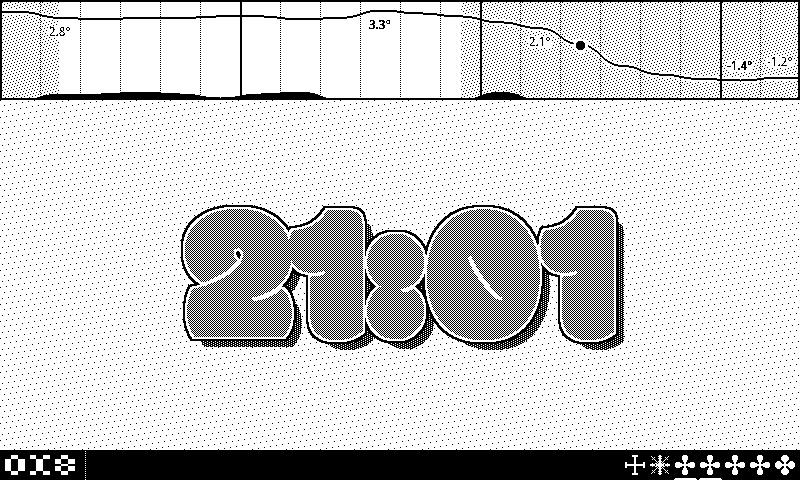
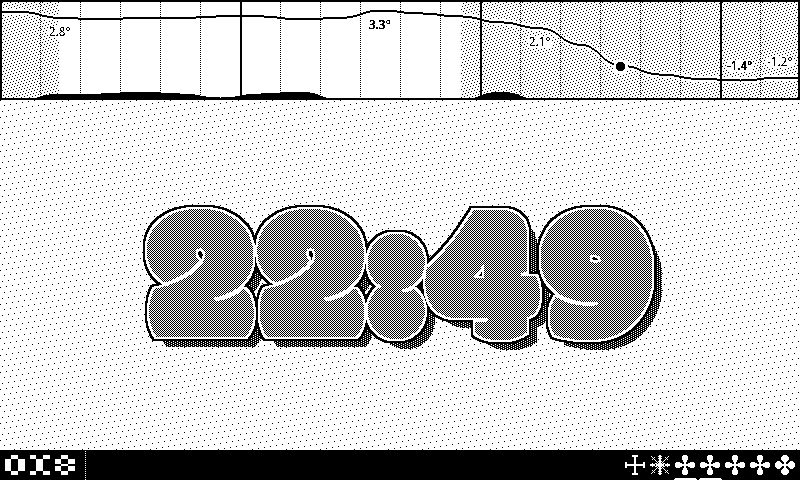
yep

diff --git a/base/index.ts b/base/index.ts
@@ -50,8 +50,11 @@ function drawScreen() {
 }
 
 let lastRendered: Buffer | null = null
-// let mutex
+let lastChange = 0
 async function drawAndUpdate(forceFullUpdate: boolean) {
+  if (Date.now() - lastChange < 5000)
+    return
+
   const img = drawScreen()
   const rendered = img.renderFullBw()
   await img.exportFullBw('test.png')
@@ -76,31 +79,29 @@ async function drawAndUpdate(forceFullUpdate: boolean) {
     return
   }
 
-  const buff = Buffer.alloc(8 + bounds.w * bounds.h)
+  const buff = Buffer.alloc(8 + Math.ceil(bounds.w * bounds.h / 8))
   buff.writeUInt16BE(bounds.x, 0)
   buff.writeUInt16BE(bounds.y, 2)
   buff.writeUInt16BE(bounds.w, 4)
   buff.writeUInt16BE(bounds.h, 6)
   ImgDiff.copyBounds(diff, buff, 8, bounds, Const.ScreenWidth)
-//  mqtt.sendBinary(TopicUpPart, buff)
+  // mqtt.sendBinary(TopicUpPart, buff)
 }
 
 async function run() {
   console.log('First')
   await drawAndUpdate(false)
+  await new Promise(resolve => setTimeout(resolve, 7000))
   console.log('Second')
   await drawAndUpdate(false)
 }
 run()
 
 
-// Export image locally
-// await img.exportFullBw('test.png')
 
-// // Render image on epd
-// const rendered = img.renderFullBw()
-// mqtt.sendBinary(TopicUpFull, rendered)
+// TODO turn off:
+// EPD_7IN5_V2_Sleep
 
 // // Clear epd screen
-// mqtt.sendBinary(TopicUpFull, new Buffer(0))
+mqtt.sendBinary(TopicUpFull, new Buffer(0))
 

diff --git a/base/ui/clock.ts b/base/ui/clock.ts
@@ -7,7 +7,7 @@ export function drawClock(): Renderer {
     paint.newRect(0, 0, width, height)
       .fill('lightest')
 
-    const rn = new Date(Date.now() + Math.random() * 600000)
+    const rn = new Date(Date.now() + Math.random() * 6000000)
     // const rn = new Date()
     const text = `${rn.getHours().toString().padStart(2, '0')}:${rn.getMinutes().toString().padStart(2, '0')}`
     const shadowDist = 10
@@ -16,21 +16,7 @@ export function drawClock(): Renderer {
      * This looks great but it means partial updates most often have
      * to update the whole text as the font is not monospaced
      */
-    // paint
-    //   .newText(text)
-    //   .at(width / 2, (height) / 2)
-    //   .anchor('center', 'center')
-    //   .size(200)
-    //   .font('Modak')
-    //   .threshold(0.9)
-    //   .translate(shadowDist, shadowDist)
-    //   .render('dark')
-    //   .translate(-shadowDist, -shadowDist)
-    //   .renderOutline('black', 4)
-    //   .renderOutline('white', 2)
-    //   .render('medium')
-
-    console.log(paint
+    paint
       .newText(text)
       .at(width / 2, (height) / 2)
       .anchor('center', 'center')
@@ -43,6 +29,5 @@ export function drawClock(): Renderer {
       .renderOutline('black', 4)
       .renderOutline('white', 2)
       .render('medium')
-      .toRect().getSize().x)
   }
 }

diff --git a/base/lib/imgdiff.ts b/base/lib/imgdiff.ts
@@ -39,13 +39,15 @@ export namespace ImgDiff {
   }
 
   export function copyBounds(src: Buffer, dest: Buffer, offset: number, bounds: { x: number, y: number, w: number, h: number }, width: number) {
-    for (let i = 0; i < bounds.h; i++) {
-      src.copy(
-        dest,
-        offset + i * bounds.w,
-        (bounds.y + i) * width + bounds.x,
-        bounds.w
-      )
+    let i = 0;
+    for (let x = bounds.x; x < bounds.x + bounds.w; x++) {
+      for (let y = bounds.y; y < bounds.y + bounds.h; y++) {
+        const idx = x + y * width
+        const byte = ~~(idx / 8)
+        const bit = idx % 8
+        dest[offset + i] = (src[byte] >> bit) & 1
+        i++
+      }
     }
   }
 

diff --git a/base/lib/paint.ts b/base/lib/paint.ts
@@ -156,7 +156,8 @@ export const usePaint = (ctx: SKRSContext2D, startX = 0, startY = 0, screenWidth
       font: 'monospace',
       thresh: 0.9,
       anchorX: 'left',
-      anchorY: 'top'
+      anchorY: 'top',
+      anchorSnap: 0
     }
 
     const out = {

diff --git a/base/lib/const.ts b/base/lib/const.ts
@@ -5,6 +5,6 @@ export namespace Const {
   export const ScreenWidth = 800
   export const ScreenHeight = 480
 
-  export const MaxPixelsForPartialUpdate = 1000
+  export const MaxPixelsForPartialUpdate = 70_000
 
 }

diff --git a/esp/src/main.cpp b/esp/src/main.cpp
@@ -6,8 +6,19 @@
 #include <stdlib.h>
 
 
+int part_x = 0;
+int part_y = 0;
+int part_w = 0;
+int part_h = 0;
+int current_mode = -1;
+
 void on_message(int mode, size_t length, size_t index, bool done, char* message) {
   if (mode == MODE_FULL) {
+    if (current_mode != MODE_FULL) {
+      current_mode = MODE_FULL;
+      disp_init_full();
+    }
+
     printf("Full! Length: %d\n", length);
     if (index == 0) {
       disp_raw_begin(800, 480);
@@ -18,10 +29,36 @@ void on_message(int mode, size_t length, size_t index, bool done, char* message)
     }
 
     if (done) {
-      disp_raw_render();
+      disp_raw_render_full();
     }
   } else if (mode == MODE_PART) {
-    printf("PART!\n");
+    if (current_mode != MODE_PART) {
+      current_mode = MODE_PART;
+      disp_init_part();
+    }
+
+    if (index == 0) {
+      part_x = message[0] << 8 | message[1];
+      part_y = message[2] << 8 | message[3];
+      part_w = message[4] << 8 | message[5];
+      part_h = message[6] << 8 | message[7];
+
+      printf("Part! x: %d, y: %d, w: %d, h: %d\n", part_x, part_y, part_w, part_h);
+
+      disp_raw_begin(part_w, part_h);
+
+      for (int i = 8; i < length; i++) {
+        disp_raw_stream_pixels(&message[i], part_w, part_h, i + index - 8);
+      }
+    } else {
+      for (int i = 0; i < length; i++) {
+        disp_raw_stream_pixels(&message[i], part_w, part_h, i + index);
+      }
+    }
+
+    if (done) {
+      disp_raw_render_part(part_x, part_y, part_w, part_h);
+    }
   }
 }
 

diff --git a/esp/src/display.cpp b/esp/src/display.cpp
@@ -77,6 +77,18 @@ void disp_raw_stream_pixels(char* pixels, const int w, const int h, const int of
   }
 }
 
-void disp_raw_render(void) {
+void disp_raw_render_full(void) {
   EPD_7IN5_V2_Display(ImageBuffer);
+}
+
+void disp_raw_render_part(int x, int y, int w, int h) {
+  EPD_7IN5_V2_Display_Part(ImageBuffer, x, y, x + w, y + h);
+}
+
+void disp_init_full(void) {
+  EPD_7IN5_V2_Init();
+}
+
+void disp_init_part(void) {
+  EPD_7IN5_V2_Init_Part();
 }

diff --git a/esp/src/display.h b/esp/src/display.h
@@ -11,6 +11,11 @@ extern int disp_print_raw(const char* text);
 
 extern UBYTE* disp_raw_begin(const int w, const int h);
 extern void disp_raw_stream_pixels(char* pixels, const int w, const int h, const int offset);
-extern void disp_raw_render(void);
+
+extern void disp_raw_render_full(void);
+extern void disp_raw_render_part(int x, int y, int w, int h);
+
+extern void disp_init_full(void);
+extern void disp_init_part(void);
 
 #endif

diff --git a/waveshare.md b/waveshare.md
@@ -1,0 +1,11 @@
+1. For e-Paper displays that support partial refresh, please note that you cannot refresh them with the partial refresh mode all the time. After refreshing partially several times, you need to fully refresh EPD once. Otherwise, the display effect will be abnormal.
+2. It is a normal phenomenon that the three-color or multi-color EPD will have a certain color difference in different batches. Hence, it is recommended to use the program to clear all the pictures on the EPD and store it facing up. Please clear the screen several times before powering on.
+3. Note that the screen cannot be powered on for a long time. When the screen is not refreshed, please set the screen to sleep mode or power off it. Otherwise, the screen will remain in a high voltage state for a long time, which will damage the e-Paper and cannot be repaired!
+4. When using the e-Paper display, it is recommended that the refresh interval be at least 180s, and refresh at least once every 24 hours. If the e-Paper is not used for a long time, you should use the program to clear the screen before storing it. (Refer to the datasheet for specific storage environment requirements.)
+5. After the screen enters sleep mode, the sent image data will be ignored, and it can be refreshed normally only after initializing again.
+6. Control the 0x3C or 0x50 (refer to the datasheet for details) register to adjust the border color. In the demo, you can adjust the Border Waveform Control register or VCOM AND DATA INTERVAL SETTING to set the border.
+7. If you find that the created image data is displayed incorrectly on the screen, it is recommended to check whether the image size setting is correct, change the width and height settings of the image and try again.
+8. The working voltage of the e-Paper display is 3.3V. If you buy the raw panel, you need to add a level convert circuit for compatibility with 5V voltage. The new version of the driver board (V2.1 and subsequent versions) has added a level processing circuit, which can support both 3.3V and 5V. The old version only supports a 3.3V working environment. You can confirm the version before using it. (The version number is under the board name.)
+9. The FPC cable of the screen is fragile, Please note: Do not bend the cable along the vertical direction of the screen to avoid tearing the cable; Do not repeatedly excessive bending the cable, to avoid the cable fracture; Do not bend the cable toward the front of the screen to avoid the cable from being disconnected from the panel. It is recommended to use fixed wiring during debugging and development.
+10. The screen of e-Paper is relatively fragile, please try to avoid dropping, bumping and pressing hard.
+11. We recommend that customers use the sample program provided by us to test with the corresponding development board.
